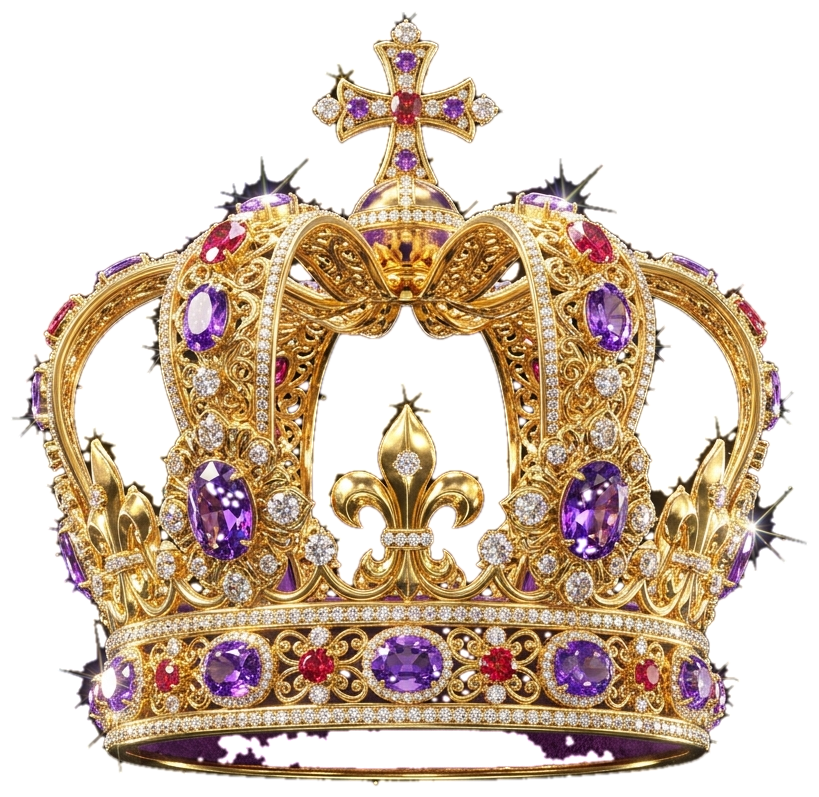
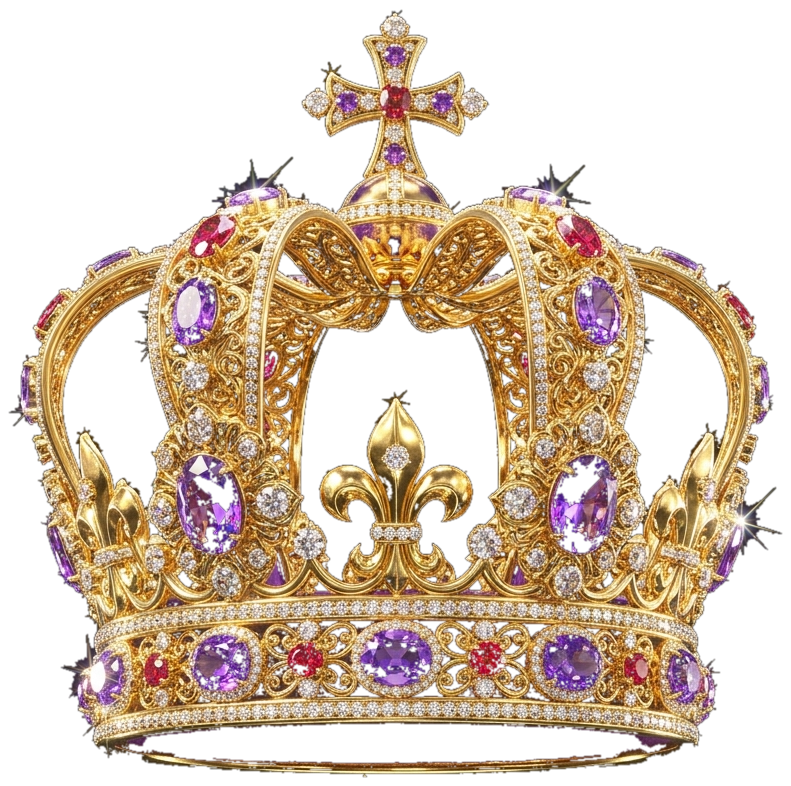
style(navbar): eliminate all yellow auras sparkles and haze from crown image and navbar component

diff --git a/src/components/layout/floating-student-navbar.tsx b/src/components/layout/floating-student-navbar.tsx
@@ -162,9 +162,9 @@ export function FloatingStudentNavbar({
                   aria-hidden="true"
                 >
                   <img
-                    src="/images/luxury-royal-crown.png"
+                    src="/images/luxury-royal-crown.png?v=2"
                     alt="Imperial Gold Crown"
-                    className="size-full object-contain drop-shadow-[0_2px_6px_rgba(0,0,0,0.12)]"
+                    className="size-full object-contain drop-shadow-sm"
                   />
                 </div>
               </button>
